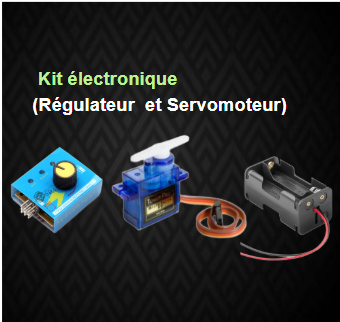
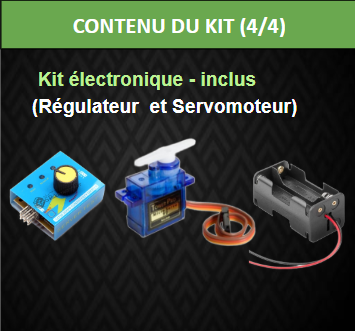
changement images carroussel détail produit

diff --git a/produits.js b/produits.js
@@ -2,8 +2,8 @@
 function openProductDetails(productId) {
     // Définition des images en fonction de l'ID du produit
     const productImages = {
-        1: ["PLA PARTS.png", "peintureacry.png", "pinceaux.png", "kitelectrique.png"], // Kit Auto
-        2: ["PLA PARTS.png", "peintureacry.png", "pinceaux.png", "kitelectriquenon.png"] // Kit Manuel
+        1: ["kitauto11.png","PLA PARTS.png", "peintureacry.png", "pinceaux.png", "kitelectrique.png"], // Kit Auto
+        2: ["kit manuel11.png","PLA PARTS.png", "peintureacry.png", "pinceaux.png", "kitelectriquenon.png"] // Kit Manuel
     };
 
     // Vérification des images du produit
